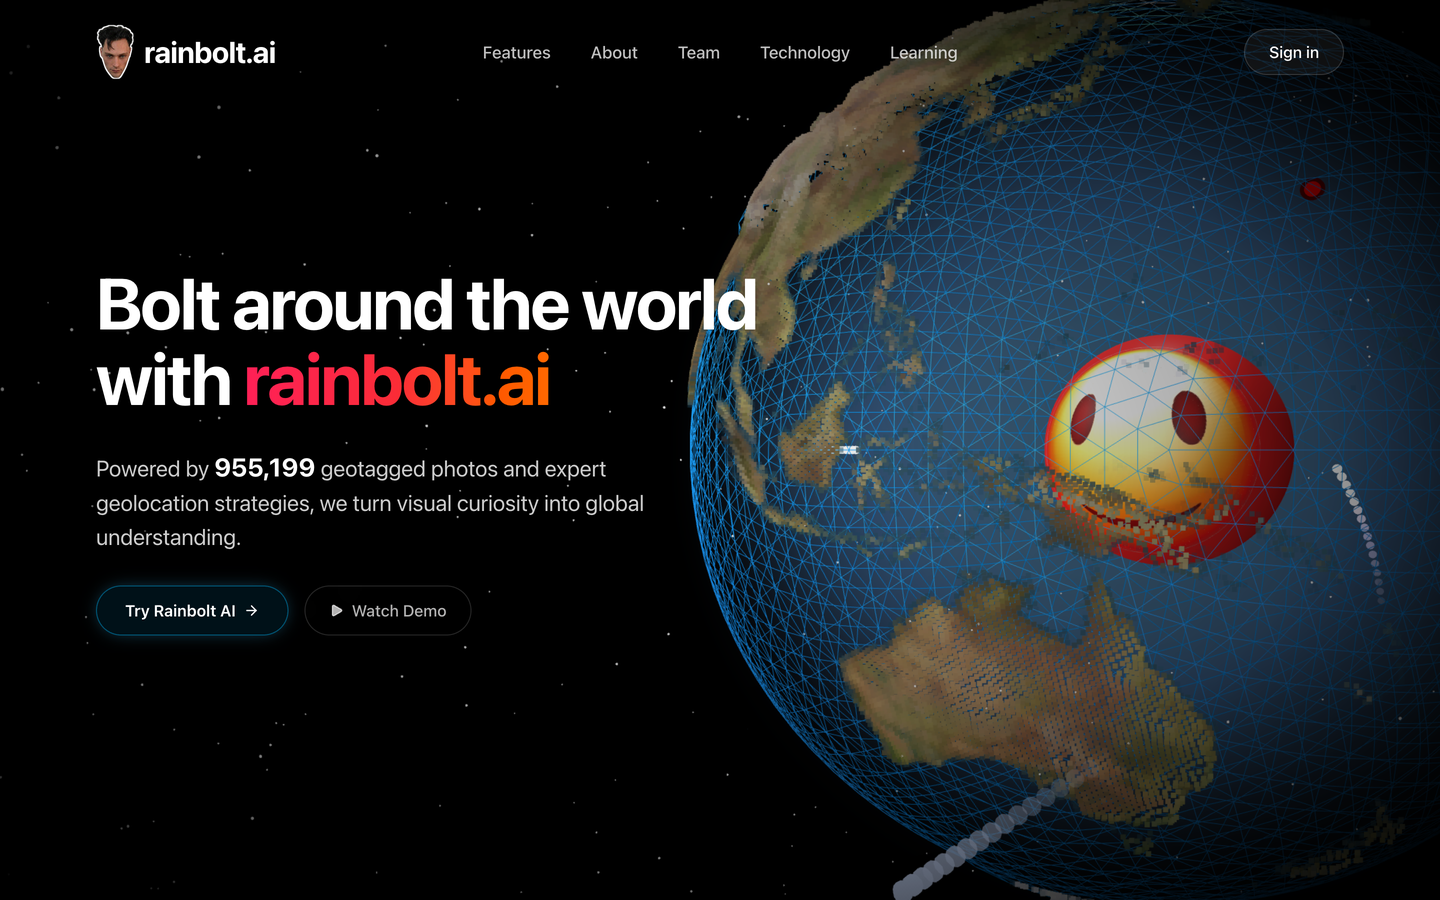
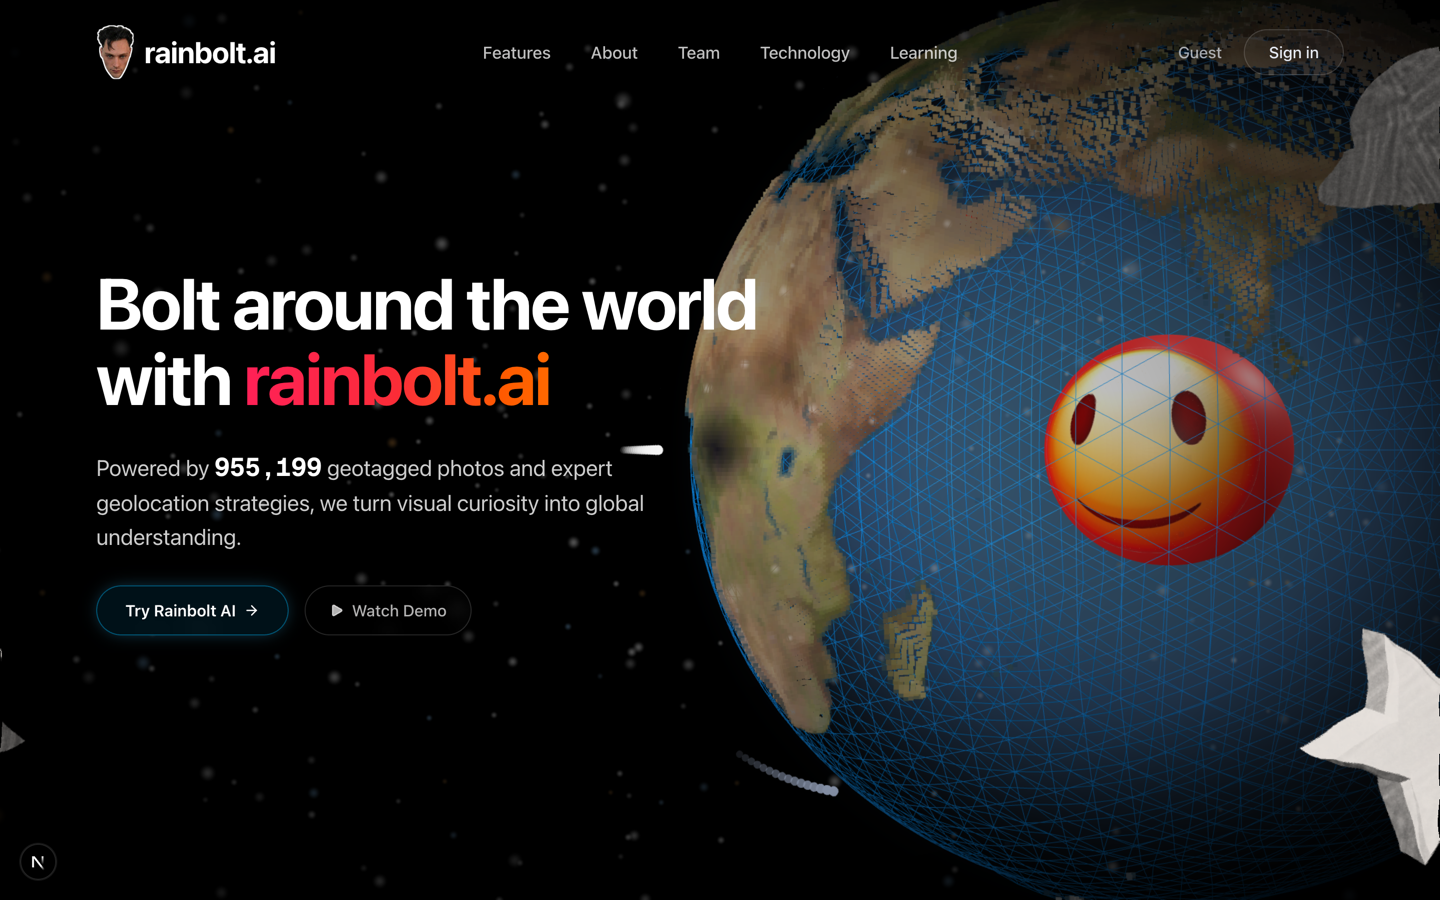
docs(readme): update screenshots to the reworked interface

diff --git a/README.md b/README.md
@@ -13,7 +13,7 @@ AI-powered geolocation: upload a photo and the system predicts where it was take
 
 ![Example reasoning: the model's thinking streamed over the retrieved evidence, with the predicted location on the globe](images/ex1.png)
 
-![Constellation view: past sessions mapped as linked stars you can drag, connect, and revisit](images/canvas.png)
+![Your world: past sessions pinned and linked on an interactive globe, with a session rail to jump back in](images/canvas.png)
 
 This document is the developer and operator guide. For the original project story, see the [Devpost submission](https://devpost.com/software/rainbolt-ai).
 
